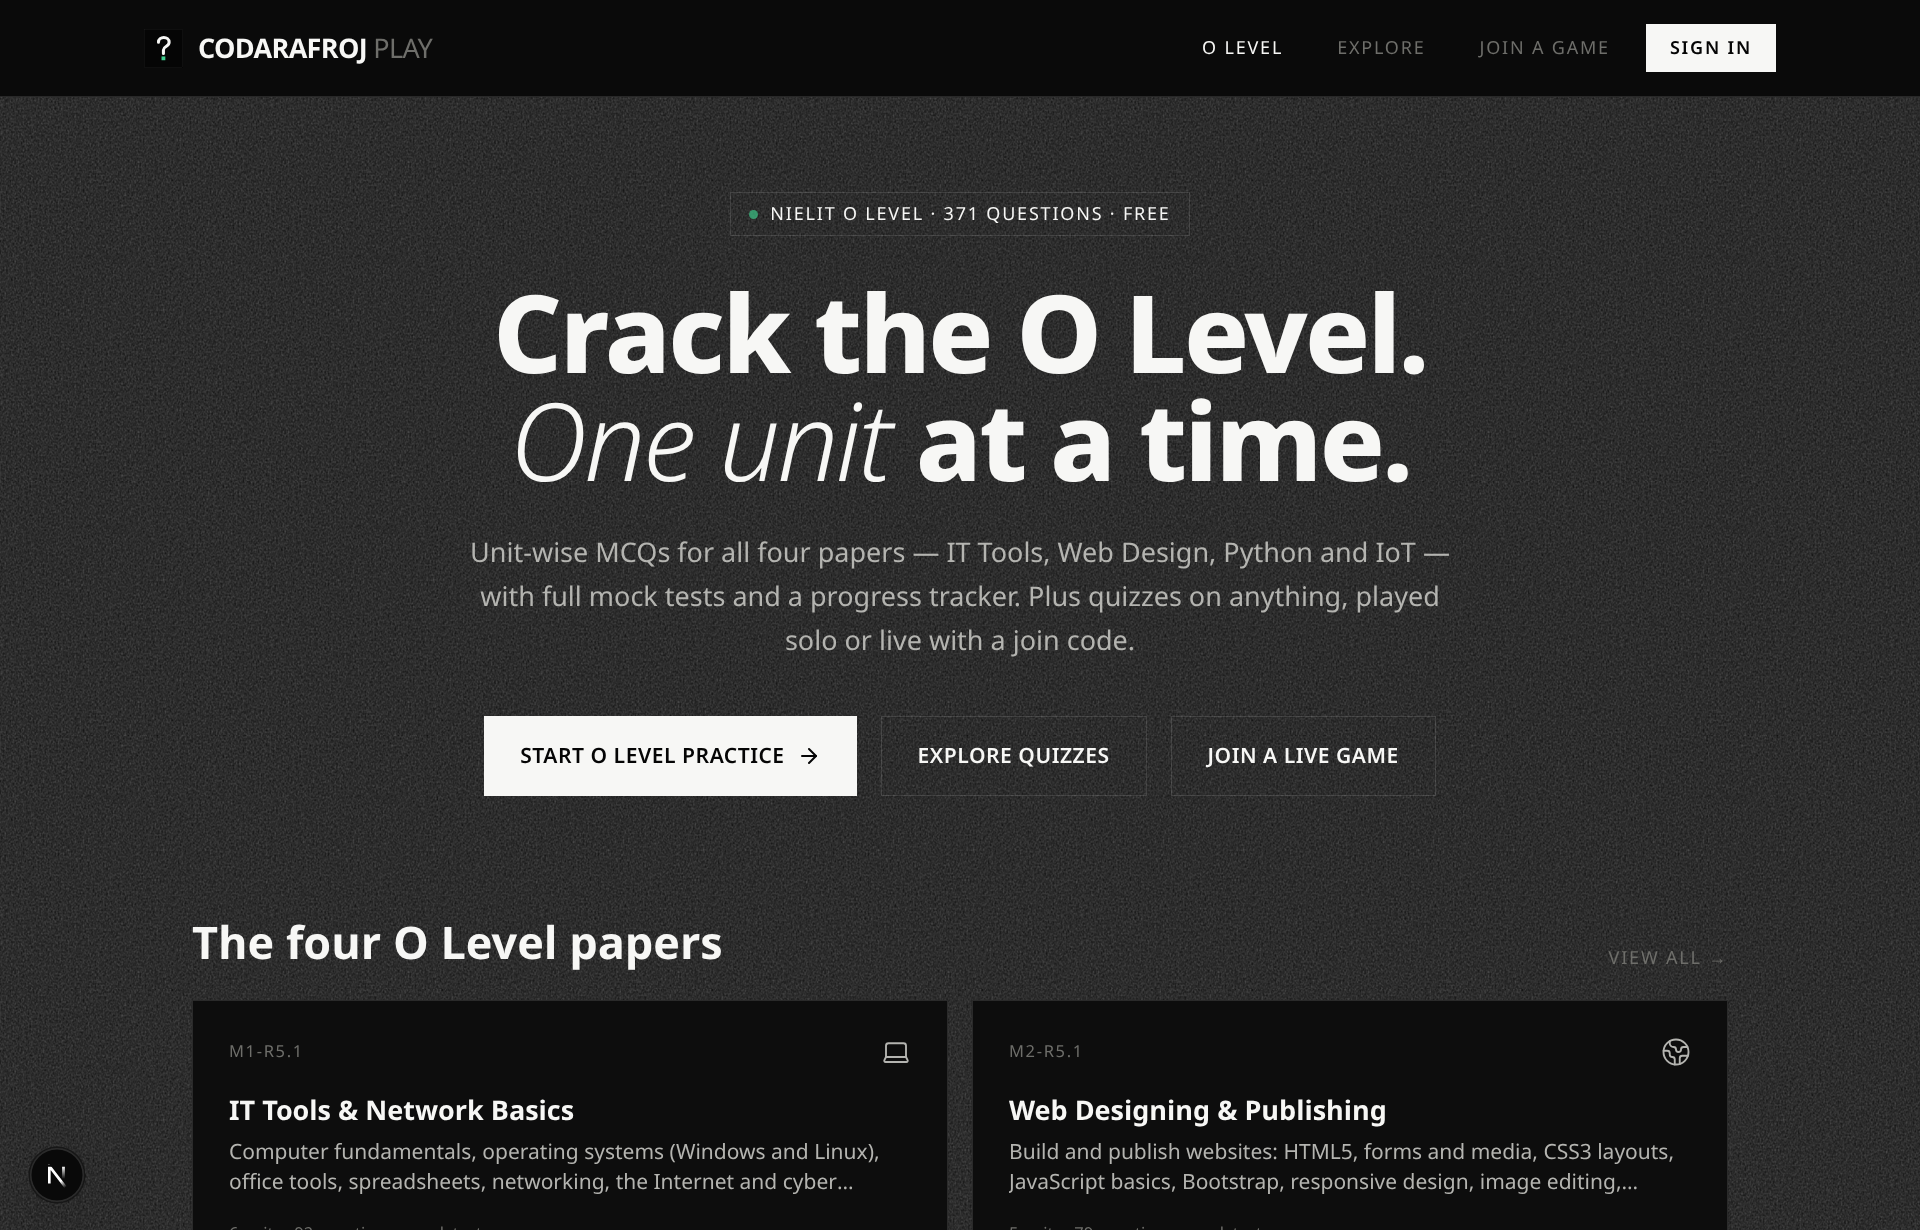
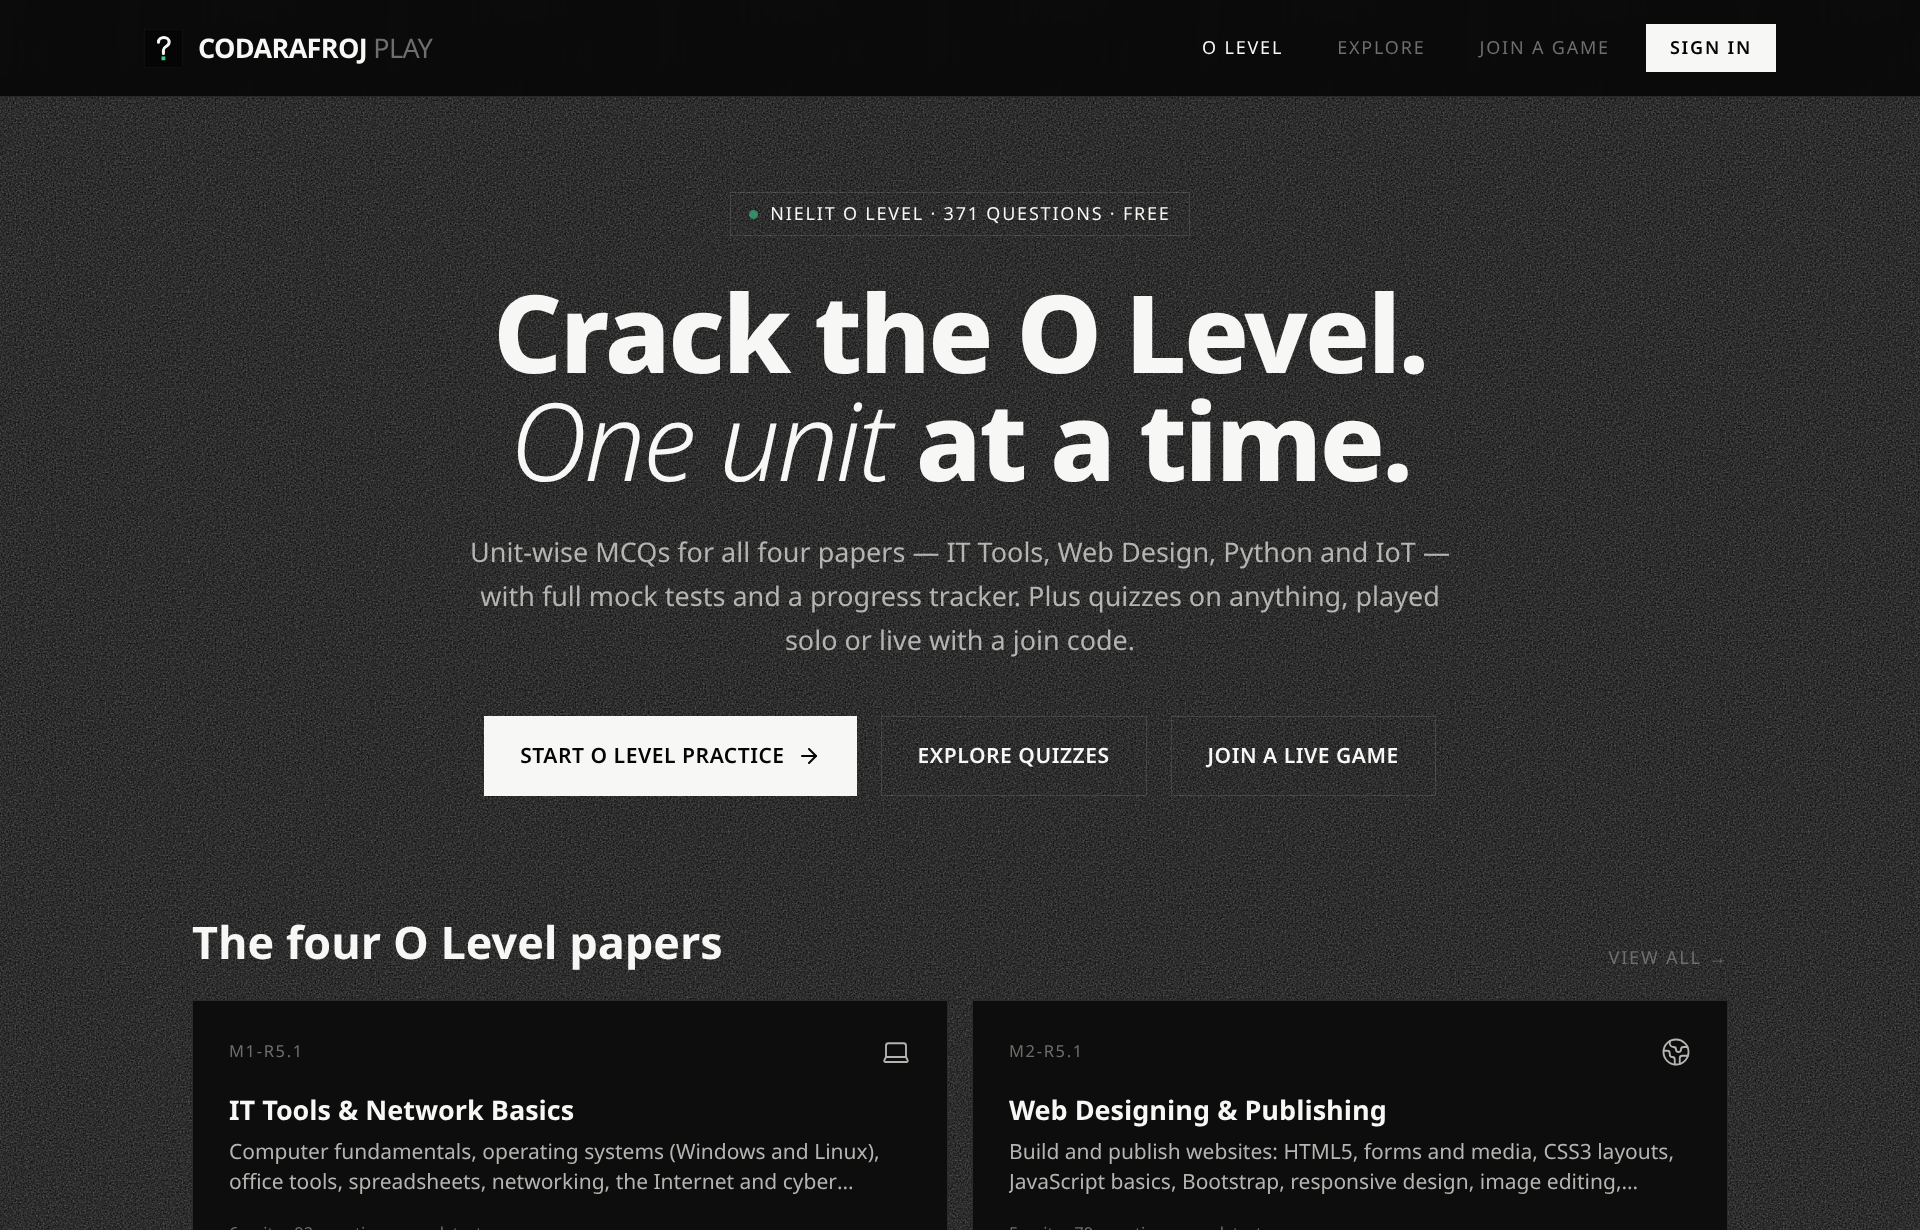
Prepare for open source

Changed region(s): [[0.0, 0.9268, 0.0625, 0.9886]]

diff --git a/app/preview/page.tsx b/app/preview/page.tsx
@@ -1,0 +1,276 @@
+"use client";
+
+import { Suspense } from "react";
+import { useSearchParams } from "next/navigation";
+import { Clock, ShieldAlert, Laptop, Globe, Code2, Cpu, Trophy, CheckCircle2 } from "lucide-react";
+import Navbar from "@/components/Navbar";
+import QuizBuilder from "@/components/dashboard/QuizBuilder";
+import type { Quiz } from "@/lib/types";
+
+const SAMPLE_QUIZ: Quiz = {
+  id: "sample-preview",
+  ownerId: "user-1",
+  ownerName: "Codarafroj",
+  title: "Python Data Structures & OOP",
+  description: "Lists, tuples, dictionaries, decorators, classes and generator functions.",
+  language: "English",
+  category: "Python",
+  difficulty: "Intermediate",
+  visibility: "public",
+  status: "approved",
+  createdAt: Date.now(),
+  updatedAt: Date.now(),
+  playCount: 142,
+  questions: [
+    {
+      id: "q1",
+      text: "Which of the following creates a generator in Python, not a list?",
+      options: [
+        "[x for x in range(10)]",
+        "(x for x in range(10))",
+        "{x for x in range(10)}",
+        "list(range(10))",
+      ],
+      correctIndex: 1,
+      timeLimit: 20,
+      points: 1000,
+      difficulty: "medium",
+    },
+    {
+      id: "q2",
+      text: "What does the @property decorator do on a Python class method?",
+      options: [
+        "Makes the method private",
+        "Allows accessing a method like an attribute",
+        "Caches the method return value",
+        "Makes the class static",
+      ],
+      correctIndex: 1,
+      timeLimit: 30,
+      points: 1000,
+      difficulty: "hard",
+    },
+  ],
+};
+
+function LiveGamePreview() {
+  const SHAPES = ["▲", "◆", "●", "■"];
+  const options = ["TCP (Transmission Control)", "IP (Internet Protocol)", "HTTP (HyperText Transfer)", "Ethernet (IEEE 802.3)"];
+
+  return (
+    <div className="min-h-screen bg-bg text-fg flex flex-col justify-between p-6 md:p-10 font-body">
+      {/* Top HUD */}
+      <div className="max-w-4xl mx-auto w-full flex items-center justify-between border-b border-border pb-4">
+        <div className="flex items-center gap-3">
+          <span className="font-mono text-xs uppercase tracking-widest text-muted">GAME PIN: <span className="text-fg font-bold">482 910</span></span>
+          <span className="text-muted font-mono">·</span>
+          <span className="font-mono text-xs uppercase tracking-widest text-muted">M1-R5.1 Networking</span>
+        </div>
+        <div className="flex items-center gap-4">
+          <span className="font-mono text-xs uppercase text-fg font-bold flex items-center gap-1.5">
+            <Trophy size={14} className="text-accent-correct" /> 2,450 pts (Rank #1)
+          </span>
+          <div className="flex items-center gap-1.5 px-3 py-1 bg-surface-raised border border-border-strong font-mono text-xs text-fg">
+            <Clock size={13} className="text-accent-correct animate-pulse" /> 14s
+          </div>
+        </div>
+      </div>
+
+      {/* Main Question Area */}
+      <div className="max-w-2xl mx-auto w-full text-center my-auto py-8">
+        <span className="font-mono text-xs uppercase tracking-widest text-muted block mb-3">
+          Question 4 of 10
+        </span>
+        <h1 className="font-display font-extrabold text-2xl md:text-3xl text-fg mb-10 leading-tight">
+          Which protocol operates at the Transport Layer of the OSI model?
+        </h1>
+
+        <div className="grid grid-cols-2 gap-4 max-w-lg mx-auto">
+          {options.map((opt, idx) => (
+            <button
+              key={idx}
+              className={`card-frame p-6 flex flex-col items-center justify-center gap-3 text-center transition-transform hover:scale-[1.02] ${
+                idx === 0 ? "border-fg bg-surface-raised ring-1 ring-fg" : ""
+              }`}
+            >
+              <span className={`text-3xl ${idx === 0 ? "text-accent-correct" : "text-fg-dim"}`}>
+                {SHAPES[idx]}
+              </span>
+              <span className="text-sm font-medium text-fg">{opt}</span>
+            </button>
+          ))}
+        </div>
+      </div>
+
+      {/* Footer Info */}
+      <div className="max-w-4xl mx-auto w-full flex items-center justify-between border-t border-border pt-4 font-mono text-xs text-muted">
+        <span>Playing as <strong className="text-fg">Afroj (Host Game)</strong></span>
+        <span>18 players answered</span>
+      </div>
+    </div>
+  );
+}
+
+function ProgressPreview() {
+  const readiness = 78;
+  const papers = [
+    {
+      code: "M1-R5.1",
+      short: "IT Tools & Basics",
+      title: "Information Technology Tools and Network Basics",
+      icon: Laptop,
+      unitsDone: 6,
+      unitsTotal: 6,
+      readiness: 88,
+      mockScore: "28/30",
+    },
+    {
+      code: "M2-R5.1",
+      short: "Web Designing",
+      title: "Web Designing and Publishing (HTML, CSS, JS)",
+      icon: Globe,
+      unitsDone: 5,
+      unitsTotal: 5,
+      readiness: 82,
+      mockScore: "26/30",
+    },
+    {
+      code: "M3-R5.1",
+      short: "Python",
+      title: "Programming and Problem Solving through Python",
+      icon: Code2,
+      unitsDone: 5,
+      unitsTotal: 6,
+      readiness: 76,
+      mockScore: "24/30",
+    },
+    {
+      code: "M4-R5.1",
+      short: "IoT",
+      title: "Internet of Things and its Applications",
+      icon: Cpu,
+      unitsDone: 4,
+      unitsTotal: 6,
+      readiness: 66,
+      mockScore: "Pending",
+    },
+  ];
+
+  return (
+    <>
+      <Navbar />
+      <main className="pt-28 pb-20 px-5 md:px-8 max-w-5xl mx-auto font-body">
+        <div className="mb-8">
+          <span className="font-mono text-xs uppercase tracking-widest text-muted block mb-2">
+            Learner Dashboard
+          </span>
+          <h1 className="font-display font-extrabold text-3xl md:text-4xl text-fg mb-3">
+            Your O Level Progress & Readiness
+          </h1>
+          <p className="text-fg-dim text-sm max-w-xl">
+            Live accuracy tracking across all 4 NIELIT papers. Syllabi completion, unit mock results, and readiness scores.
+          </p>
+        </div>
+
+        {/* Readiness Meter Card */}
+        <div className="card-frame p-6 sm:p-8 mb-8 flex flex-col sm:flex-row items-center gap-6">
+          <div className="relative w-24 h-24 flex-shrink-0">
+            <svg viewBox="0 0 100 100" className="w-full h-full -rotate-90">
+              <circle cx="50" cy="50" r="42" fill="none" stroke="var(--mono-border)" strokeWidth="8" />
+              <circle
+                cx="50"
+                cy="50"
+                r="42"
+                fill="none"
+                stroke="var(--accent-correct)"
+                strokeWidth="8"
+                strokeLinecap="round"
+                strokeDasharray={2 * Math.PI * 42}
+                strokeDashoffset={2 * Math.PI * 42 * (1 - readiness / 100)}
+              />
+            </svg>
+            <span className="absolute inset-0 flex items-center justify-center font-display font-extrabold text-2xl text-fg">
+              {readiness}%
+            </span>
+          </div>
+          <div className="min-w-0 text-center sm:text-left flex-1">
+            <div className="flex items-center justify-center sm:justify-start gap-2 mb-1">
+              <h3 className="font-display font-bold text-xl text-fg">Overall Exam Readiness</h3>
+              <span className="text-[10px] font-mono uppercase px-2 py-0.5 bg-accent-correct/10 text-accent-correct border border-accent-correct/30 font-semibold">
+                Exam Ready
+              </span>
+            </div>
+            <p className="text-fg-dim text-sm leading-relaxed mb-3">
+              Average score across 20 completed unit quizzes. 3 of 4 papers have reached green passing grade (70%+).
+            </p>
+            <div className="flex flex-wrap gap-4 font-mono text-xs text-muted">
+              <span>Completed Units: <strong className="text-fg">20 / 23</strong></span>
+              <span>Total Attempts: <strong className="text-fg">48</strong></span>
+              <span>Best Streak: <strong className="text-fg">7 days</strong></span>
+            </div>
+          </div>
+        </div>
+
+        {/* Paper Cards Breakdown */}
+        <div className="grid md:grid-cols-2 gap-4">
+          {papers.map((p) => {
+            const Icon = p.icon;
+            return (
+              <div key={p.code} className="card-frame p-5 flex flex-col justify-between gap-4">
+                <div>
+                  <div className="flex items-center justify-between mb-2">
+                    <span className="font-mono text-xs uppercase tracking-wider text-muted flex items-center gap-1.5">
+                      <Icon size={14} /> {p.code}
+                    </span>
+                    <span className="font-mono text-xs font-bold text-accent-correct">
+                      {p.readiness}% readiness
+                    </span>
+                  </div>
+                  <h4 className="font-display font-bold text-base text-fg mb-1">{p.title}</h4>
+                  <p className="font-mono text-xs text-fg-dim">{p.short}</p>
+                </div>
+
+                <div className="pt-3 border-t border-border flex items-center justify-between font-mono text-xs text-muted">
+                  <span className="flex items-center gap-1 text-fg">
+                    <CheckCircle2 size={13} className="text-accent-correct" />
+                    {p.unitsDone}/{p.unitsTotal} units done
+                  </span>
+                  <span>Mock Score: <strong className="text-fg">{p.mockScore}</strong></span>
+                </div>
+              </div>
+            );
+          })}
+        </div>
+      </main>
+    </>
+  );
+}
+
+function PreviewRouter() {
+  const searchParams = useSearchParams();
+  const view = searchParams.get("view") || "builder";
+
+  if (view === "live") return <LiveGamePreview />;
+  if (view === "progress") return <ProgressPreview />;
+
+  // Default: builder
+  return (
+    <>
+      <Navbar />
+      <main className="pt-28 pb-20 px-5 md:px-8 min-h-screen">
+        <h1 className="font-display font-extrabold text-3xl md:text-4xl text-fg text-center mb-10">
+          Build your quiz.
+        </h1>
+        <QuizBuilder existingQuiz={SAMPLE_QUIZ} />
+      </main>
+    </>
+  );
+}
+
+export default function PreviewPage() {
+  return (
+    <Suspense fallback={<div className="min-h-screen bg-bg text-muted flex items-center justify-center font-mono">Loading preview…</div>}>
+      <PreviewRouter />
+    </Suspense>
+  );
+}

diff --git a/next.config.ts b/next.config.ts
@@ -18,6 +18,7 @@ const nextConfig: NextConfig = {
   reactStrictMode: true,
   poweredByHeader: false, // don't advertise the framework
   compress: true,
+  devIndicators: false,
   experimental: {
     // Smaller client bundles: only import the icons / motion helpers actually used.
     optimizePackageImports: ["lucide-react", "framer-motion"],
